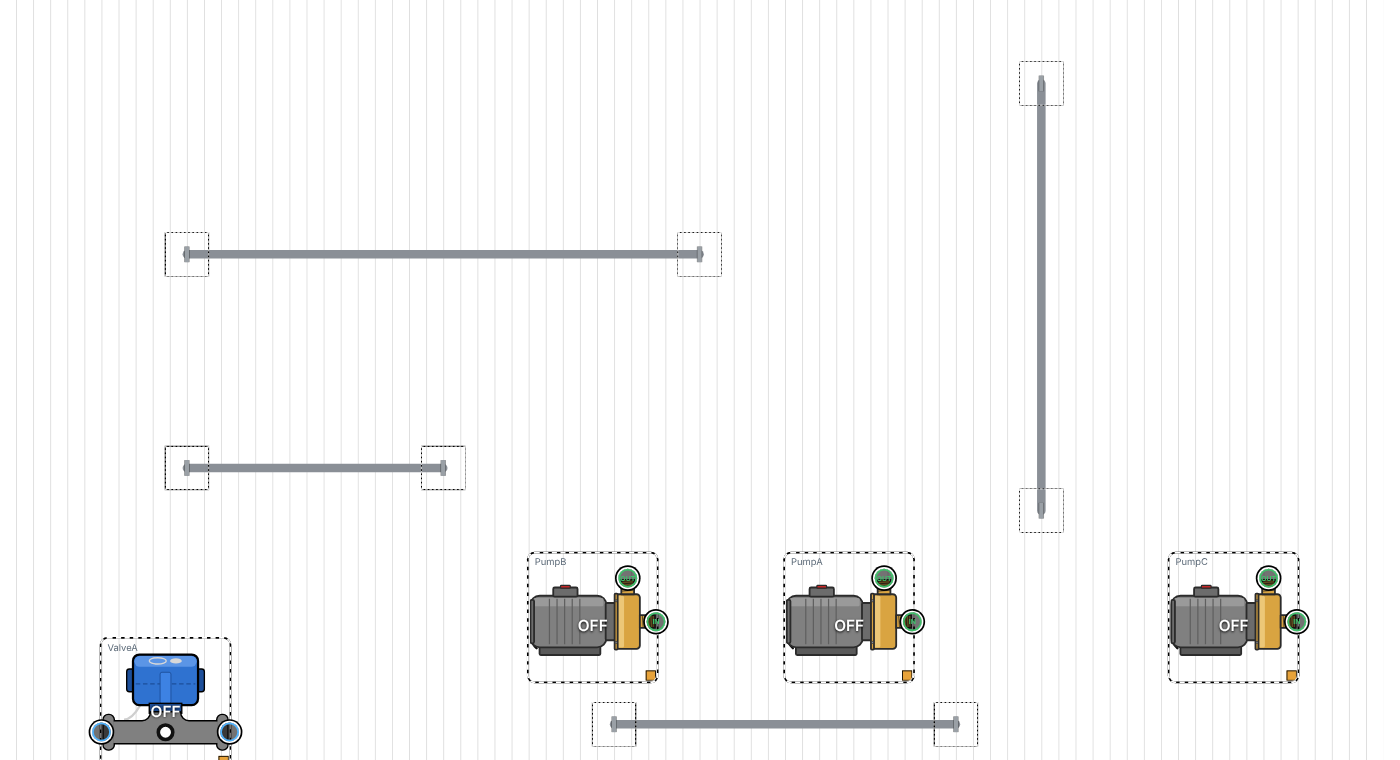
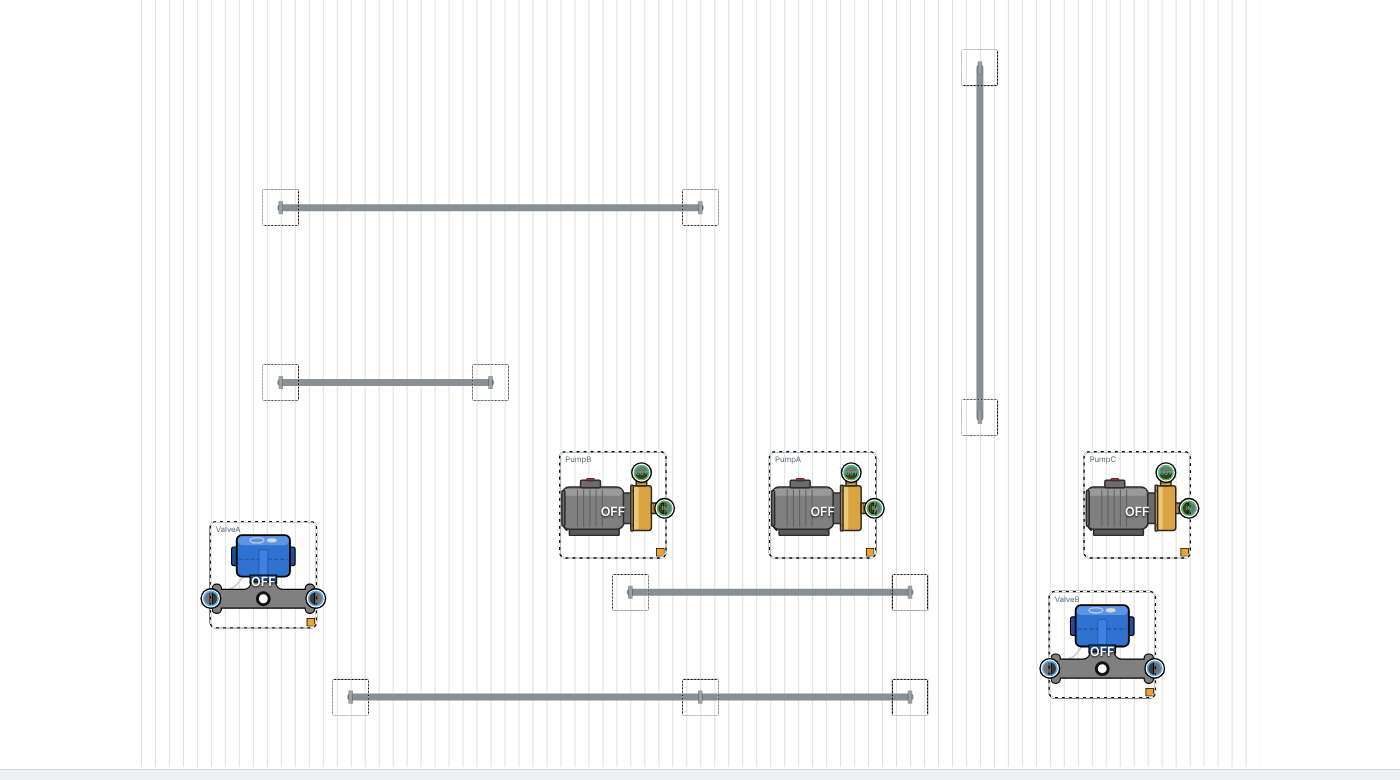
Pump or valve on a pipe end joins both IPs (Rule 5.26)
Fritz: dropped on the end of a pipe it needs both IPs. An end on a tee, elbow
or other IP now stays put: the item slides back clear of it, the pipe is made
shorter, and its other IP joins that end with a short new pipe.

Claude-Session: https://claude.ai/code/session_012LFz6hKpAwTqdce7qFGueo

diff --git a/public/pipefit.js b/public/pipefit.js
@@ -53,13 +53,14 @@ export function fitFor(dirs) {
 //  - between the ends (both ends outside the item): the pipe is cut in two. Each piece runs on in line into an IP that faces
 //    along the pipe towards it. A port that faces across the pipe (a pump's outlet on top) gets its piece taken round with
 //    elbows: out of the port, across past the side of the item, and back onto the pipe's line (Rule 5.19: turns only at fittings).
-//  - over one end: the pipe is made shorter and joined to the IP that faces along it, but only when that end is an open end
-//    (its own coupling); an end on a tee, an elbow or another IP stays as it is.
+//  - over one end: the pipe is made shorter. An open end (its own coupling) goes away and the pipe joins one IP; an end on a
+//    tee, an elbow or another IP stays there: the item slides back along the pipe, clear of it, and is joined to both sides
+//    (Fritz, 2026-11-04: "it needs both IPs").
 // The item moves across the pipe (not along it) so the IP sits on the pipe's line (Rule 5.23).
 // Returns null when the pipe does not run through the item, { ok: false, why } when it does but can't be cut, else
 // { ok: true, mode, shift: [dx, dy], joints: [[x, y] ...], pieces: [{ from, to, pts }], drop } where from / to are 'A' or 'B'
 // (the pipe's old ends), a port id, or 'J0', 'J1' ... (the joints), and drop is the end ('A' or 'B') whose coupling goes away.
-export function splitAt(a, b, box, ports, { gap = 30, aOpen = false, bOpen = false } = {}) {
+export function splitAt(a, b, box, ports, { gap = 30, aOpen = false, bOpen = false, slid = false } = {}) {
   const ax = a[1] === b[1] && a[0] !== b[0] ? 0 : a[0] === b[0] && a[1] !== b[1] ? 1 : -1;
   if (ax < 0 || ports.length !== 2) return null;                        // only a Horizontal or Vertical pipe
   const pp = 1 - ax, line = a[pp], T = 3;
@@ -72,9 +73,17 @@ export function splitAt(a, b, box, ports, { gap = 30, aOpen = false, bOpen = fal
   const shiftFor = q => { const s = [0, 0]; s[pp] = Math.round(line - q.c[pp]); return s; };
   const at = (q, s) => [Math.round(q.c[0] + s[0]), Math.round(q.c[1] + s[1])];
   if (aIn && bIn) return null;                                          // the whole pipe is under it
+  if ((aIn || bIn) && slid) return { ok: false, why: 'the pipe is too short to put it in' };
   if (aIn || bIn) {                                                     // over one end: make the pipe shorter
     const [cov, open, far] = aIn ? ['A', aOpen, b] : ['B', bOpen, a];
-    if (!open) return null;                                             // that end is on a tee, an elbow or another IP
+    if (!open) {         // that end is on a tee, an elbow or another IP: slide it back along the pipe, clear of that end, and cut
+      const E = aIn ? a : b, sg = Math.sign(E[ax] - far[ax]), d = [0, 0];
+      d[ax] = Math.round(E[ax] - sg * (2 * gap + 5) - (sg > 0 ? hi[ax] : lo[ax]));
+      const nb = { ...box, x: box.x + d[0], y: box.y + d[1] }, np = ports.map(q => ({ ...q, c: [q.c[0] + d[0], q.c[1] + d[1]] }));
+      const r = splitAt(a, b, nb, np, { gap, aOpen, bOpen, slid: true });
+      if (!r) return { ok: false, why: 'the pipe is too short to put it in' };
+      return r.ok ? { ...r, mode: 'end', shift: [r.shift[0] + d[0], r.shift[1] + d[1]] } : r;
+    }
     const q = ports.find(p => faces(p, far));
     if (q) {
       const s = shiftFor(q), c = at(q, s);

diff --git a/public/app.js b/public/app.js
@@ -977,8 +977,8 @@ function centerOnPipes(lay, ws) {
   return n;
 }
 // A pump or valve put on a pipe cuts it (Fritz, 2026-11-04, Rule 5.26; the geometry is splitAt in public/pipefit.js).
-// Dropped between a straight pipe's ends, the pipe becomes two pipes, one on each of its IPs; dropped over a pipe's open end, the
-// pipe is made shorter and joined to it (an end on a tee, an elbow or another IP is left alone). Only for an item none of whose
+// Dropped between a straight pipe's ends, the pipe becomes two pipes, one on each of its IPs; dropped over a pipe's end, the
+// pipe is made shorter and joined to it (an end on a tee, an elbow or another IP stays there and is joined to its other IP). Only for an item none of whose
 // IPs has a pipe yet, in Edit layout. Returns { ok, text }, or null when no pipe runs through it.
 const SPLIT_SUBS = ['pump', 'valve', 'propValve'];
 const FACES = [[-1, 0], [1, 0], [0, -1], [0, 1]];       // left, right, up, down: the way an opening faces
@@ -1032,7 +1032,7 @@ function splitPipeFor(it) {
     if (i) { giveName(q, draft.graphics); draft.graphics.push(q); made.push(q.name); }
   });
   const who = mv ? (it.name || 'the Manual Valve') : it.name;
-  return { ok: true, text: plan.mode === 'end' ? `${p.name} was made shorter and joined to ${who}${made.length ? ` (${made.join(', ')} go round it)` : ''} (Rule 5.26).`
+  return { ok: true, text: plan.mode === 'end' ? `${p.name} was made shorter and joined to ${who}${made.length ? ` (new: ${made.join(', ')})` : ''} (Rule 5.26).`
     : `${p.name} was cut in two at ${who}: ${[p.name, ...made].join(', ')} (Rule 5.26).` };
 }
 // Older Schemas (Rule 15.2): a pipe joined to the middle of a Manual Valve Widget (its one IP before Rule 5.24) is joined to the

diff --git a/test/pipes.test.js b/test/pipes.test.js
@@ -102,7 +102,17 @@ test('over an open end the pipe is made shorter; an end on a tee is left alone',
   const r = splitAt([0, 110], [350, 110], box, ports, { bOpen: true });
   assert.equal(r.ok, true); assert.equal(r.mode, 'end'); assert.equal(r.drop, 'B');
   assert.deepEqual(r.pieces, [{ from: 'A', to: 'in', pts: [[0, 110], [300, 110]] }]);
-  assert.equal(splitAt([0, 110], [350, 110], box, ports, { bOpen: false }), null);
+});
+
+test('over an end on a tee: it slides back clear of the tee and both IPs are joined (Fritz: "it needs both IPs")', () => {
+  const box = { x: 300, y: 80, w: 100, h: 60 }, valve = [{ id: 'l', c: [300, 110], f: [-1, 0] }, { id: 'r', c: [400, 110], f: [1, 0] }];
+  const r = splitAt([0, 110], [350, 110], box, valve, { bOpen: false });
+  assert.equal(r.ok, true); assert.equal(r.mode, 'end'); assert.equal(r.drop, null);
+  assert.deepEqual(r.shift, [-115, 0]);                   // its right IP is now 65 short of the tee
+  assert.deepEqual(r.pieces, [{ from: 'A', to: 'l', pts: [[0, 110], [185, 110]] }, { from: 'r', to: 'B', pts: [[285, 110], [350, 110]] }]);
+  const pump = splitAt([0, 110], [350, 110], box, [{ id: 'in', c: [300, 110], f: [-1, 0] }, { id: 'out', c: [380, 80], f: [0, -1] }], { bOpen: false });
+  assert.equal(pump.ok, true); assert.equal(pump.pieces.at(-1).to, 'B'); assert.deepEqual(pump.pieces.at(-1).pts[1], [350, 110]);
+  assert.equal(splitAt([250, 110], [350, 110], box, valve, { bOpen: false }).ok, false);     // too short to put it in
 });
 
 test('nothing is cut when the pipe passes by, is at 45, or there is no room to go round', () => {

diff --git a/docs/Skynet_Rules.md b/docs/Skynet_Rules.md
@@ -669,21 +669,23 @@ should have IPs", thread "Add IPs to Ball Valve Devices and Widgets", Help 123).
   screen (inlet) and the top of its riser (outlet). A pump picture of a user's own keeps them on the middle of its sides.
 
 5.26 **A pump or valve put on a pipe cuts the pipe** (Fritz, 2026-11-04: a Pump added between the ends of a
-Pipe divides it in two separate pipes joined to its IPs; added at the end of a pipe, the pipe is shortened and one IP joined, unless
-that end is joined to another IP (a Tee ...); thread "Split a pipe when a pump is added", Help 125).
+Pipe divides it in two separate pipes joined to its IPs; dropped on the end of a pipe "it needs both IPs": the pipe is shortened and
+the pump or valve connects with its IPs; thread "Split a pipe when a pump is added", Help 125).
 In Edit layout, when a Pump, a Valve (on/off or Proportional) or a Manual Valve Widget that is not on any pipe yet is dropped on a
 straight Horizontal or Vertical pipe (or added right on one):
 - **Between the pipe's ends:** the pipe is cut into separate pipes, one joined to each of its IPs. The first keeps the pipe's
   Name, Label, size and Flow Color; the new ones take the next Pipe_N names and the same size and Flow Color.
-- **Over one end of the pipe:** the pipe is made **shorter** and joined to one IP, **only when that end is an open end**. An end
-  that is on a tee, an elbow, a vessel port or another IP is left as it is.
+- **Over one end of the pipe:** the pipe is made **shorter** and joined to its IPs. An **open end** goes away: the pipe joins one
+  IP and the other IP is the new open end. An end on a **tee, an elbow, a vessel port or another IP** stays where it is: the pump
+  or valve slides back along the pipe, clear of it, and **both IPs are joined**, one to the shortened pipe and one by a short new
+  pipe to what the end was on (Fritz, 2026-11-04: "it needs both IPs").
 - A piece runs straight on into an IP that faces along the pipe (Rule 5.23: the pump or valve moves across onto the pipe's line).
   An IP that opens across the pipe (a pump's outlet on top when the pipe is level, or its inlet on the side when the pipe runs
   up and down) gets its piece **taken round with 90 degree elbows**: out of the IP, across past the side of the pump, and back
   onto the pipe's line (Rule 5.19: a pipe turns only at a fitting). Flip the pump (Orientation Right / Left) before dropping it
   to choose which side its inlet is on.
 - Nothing is cut when the item is already on a pipe, is Locked, the pipe is a hose or a 45 degree pipe, a 45 degree valve, a front
-  view valve, or when there is not enough pipe left to go round; a message says why. Undo by Exit without saving.
+  view valve, or when there is not enough pipe left to go round or to put it in; a message says why. Undo by Exit without saving.
 
 ---
 
@@ -1541,4 +1543,4 @@ dialogs are changed to their own set one at a time, on Fritz's say (Rule 18.10).
 - 2026-11-04: Rule 18.21: an Overlay dropdown (the On overlay) just below the Cover on the Pump dialogs, Add box and Properties (Fritz). Help 115 updated. (thread "Set the drill-down dialog standard for Devices")
 - 2026-11-04: Rule 18.21: Database and .API is on the Overlay line as a ⬢ pop-up (no box) on the Pump's Add box and Properties (Fritz's screen 7). Help 115 updated. (thread "Set the drill-down dialog standard for Devices")
 - 2026-11-04: Changed Rule 6.14 (new Send to the database choice "At clock time" writes every day at a clock time; the At clock time box shows only for that choice; the Every choices no longer have a clock time, and an older "Every 1 day at 12 AM" becomes At clock time 12 AM). Help 98 updated; no new Help number. (thread "Add At clock time to Send to the database")
-- 2026-11-04: Added Rule 5.26 (a Pump, Valve or Manual Valve Widget dropped on a straight pipe cuts it: between the ends into separate pipes joined to its IPs, over an open end the pipe is made shorter and joined; an IP that opens across the pipe is taken round with 90 degree elbows; an end on a tee or other IP is left alone). Help 125; next free Help number 126 (Help 124 is taken by PR #193). (thread "Split a pipe when a pump is added")
+- 2026-11-04: Added Rule 5.26 (a Pump, Valve or Manual Valve Widget dropped on a straight pipe cuts it: between the ends into separate pipes joined to its IPs, over an end the pipe is made shorter and both IPs joined, an end on a tee or other IP staying where it is; an IP that opens across the pipe is taken round with 90 degree elbows). Help 125; next free Help number 126 (Help 124 is taken by PR #193). (thread "Split a pipe when a pump is added")

diff --git a/help/125-pump-or-valve-cuts-a-pipe.md b/help/125-pump-or-valve-cuts-a-pipe.md
@@ -20,14 +20,19 @@ The pipe is **cut into separate pipes**, one joined to each IP of the pump or va
 
 ## Dropped over the end of a pipe
 
-If the end of the pipe is an **open end**, the pipe is made **shorter** and joined to the pump or valve. If that end is already
-joined to a **tee, an elbow, a vessel port or another IP**, it is left as it is.
+The pipe is made **shorter** and the pump or valve is joined in with **both of its IPs**.
+
+- **An open end** (nothing joined to it): the open end goes away, the pipe joins one IP, and the other IP is now the end of the
+  line, ready for the next pipe.
+- **An end on a tee, an elbow, a vessel port or another IP:** that end stays where it is. The pump or valve slides back along
+  the pipe so it is clear of it; one IP joins the shortened pipe and the other is joined by a short new pipe to the tee (or
+  whatever the end was on).
 
 ## When nothing is cut
 
 - The pump or valve is already joined to a pipe, or it is Locked.
 - The pipe is a hose, or runs at 45 degrees; the valve is turned 45 degrees or is a front view.
-- There is not enough pipe left past the pump to go round it. Move it further along the pipe and drop it again.
+- There is not enough pipe left to go round the pump or to put it in. Move it further along the pipe, or draw a longer pipe.
 
 A message at the bottom of the screen says what was done (or why not). Press **Save layout** to keep it, or **Exit** without
 saving to put everything back.
